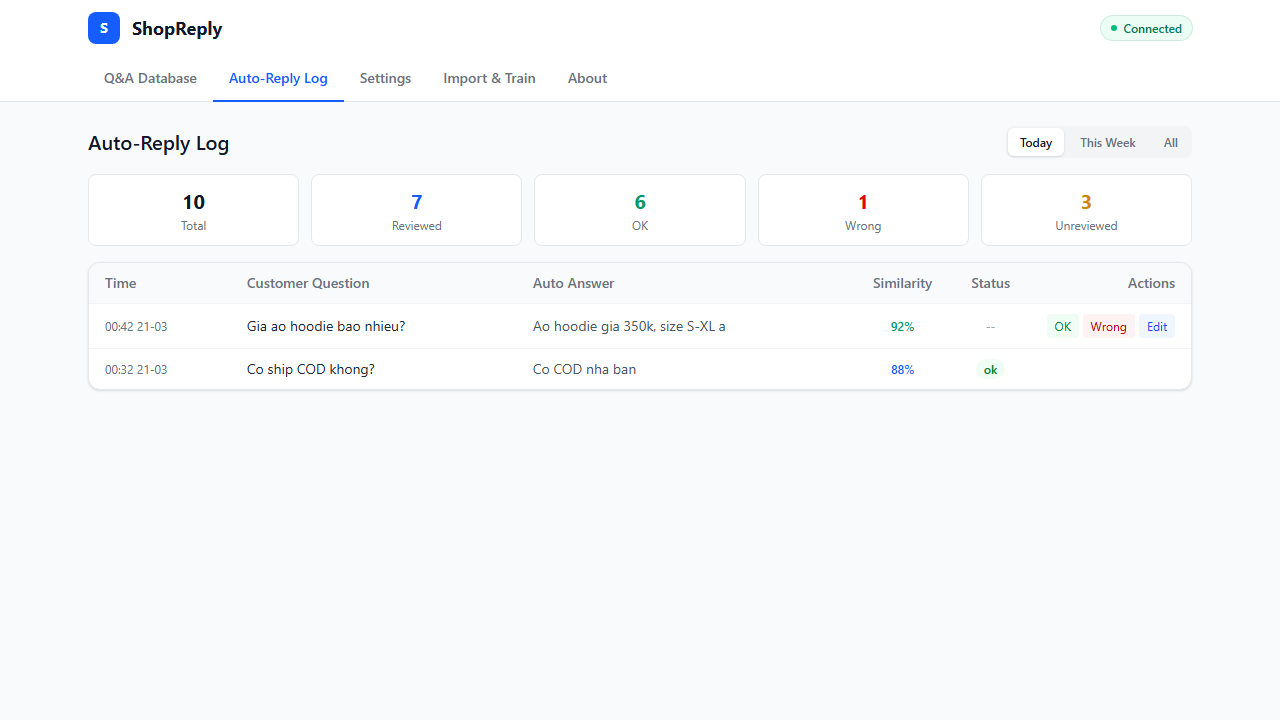
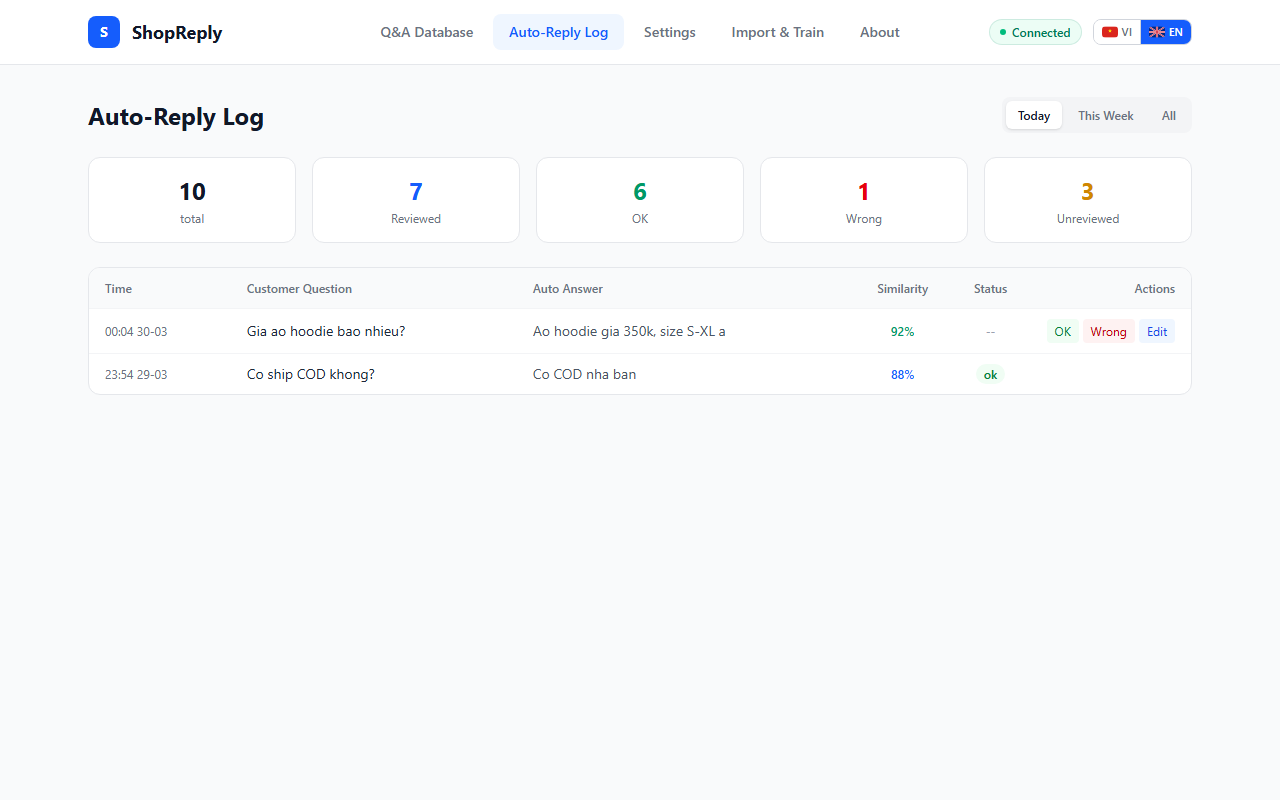
Update screenshots to match published extension UI
Replace outdated Q&A Database, Auto-Reply Log, and Settings screenshots
with current extension UI (language switcher, Q&A limit banner, shop
profile, Ollama config sections). Update Settings caption text.

diff --git a/index.html b/index.html
@@ -943,7 +943,7 @@
       <p data-i18n="sec_settings_desc">Mở cài đặt ShopReply để điều chỉnh ngưỡng tự động trả lời, giọng văn, và các nền tảng:</p>
       <figure class="screenshot">
         <img src="images/settings.png" alt="Settings - Cài đặt ShopReply">
-        <figcaption data-i18n="sec_settings_cap">Tab Settings — điều chỉnh ngưỡng auto-reply (mặc định 0.80), suggest (0.65), giọng văn, bật/tắt FB/Zalo</figcaption>
+        <figcaption data-i18n="sec_settings_cap">Tab Settings — điều chỉnh platform, chế độ auto-reply, ngưỡng, giọng văn, Ollama AI, thông tin shop</figcaption>
       </figure>
     </section>
 
@@ -1179,7 +1179,7 @@
       // Settings
       sec_settings_title: 'Customize settings',
       sec_settings_desc: 'Open ShopReply settings to adjust auto-reply threshold, tone, and platforms:',
-      sec_settings_cap: 'Settings tab — adjust auto-reply threshold (0.85), suggest (0.50), tone, toggle FB/Zalo',
+      sec_settings_cap: 'Settings tab — configure platforms, auto-reply mode, thresholds, tone, Ollama AI, shop profile',
       // Auto-start
       sec_autostart_title: 'Start with Windows (optional)',
       sec_autostart_desc: 'To have ShopReply start automatically when you turn on your computer:',
